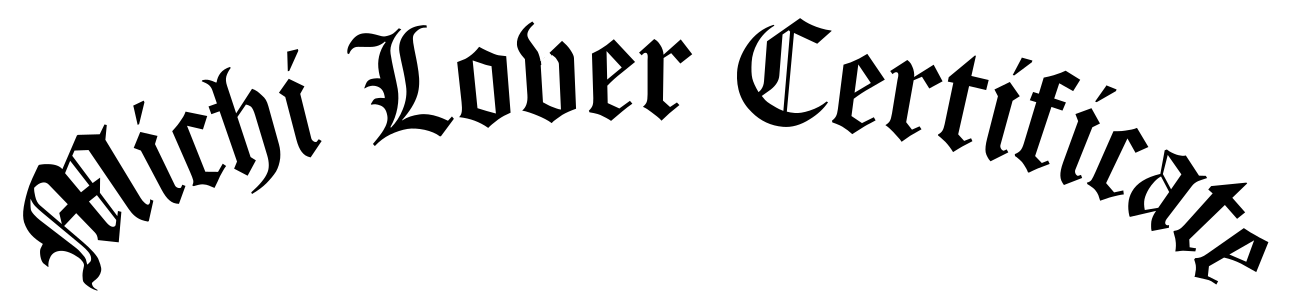
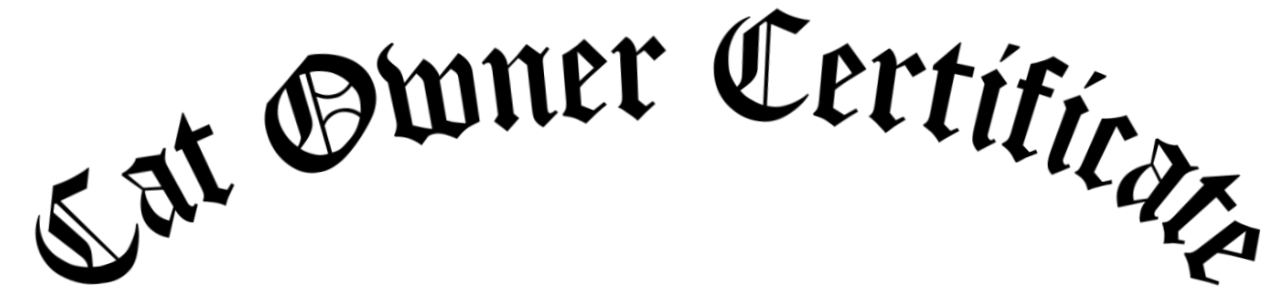
too many changes to list XD

Changed region(s): [[0.0, 0.0297, 0.9946, 0.9505]]

diff --git a/index.html b/index.html
@@ -11,16 +11,16 @@
 </head>
 
 <body class="anima">
-    <h1 id="title">MICHI LOVER<h1>
+    <h1 id="title">CAT OWNER<h1>
             <h1>CERTIFICATE<h1>
                     <p id="description">official michi fanclub</p>
                     <form method="get">
                         <fieldset>
-                            <legend>Give us your information muahaha !</legend>
+                            <legend>Personal Information</legend>
                             <label class="block" id="name-label">What's your name ? <input class="block, sel" required
                                     id="name" type="text" placeholder="Karen"></label>
-                            <label id="email-label">Give us your email ! <input class="block, sel" required id="email"
-                                    type="email" placeholder="michi@atun.com"></label>
+                            <label id="email-label">e-mail address <input class="block, sel" id="email"
+                                    type="email" placeholder="michi@atun.com" disabled></label>
                         </fieldset>
                         <fieldset>
                             <legend>Quantity and Origin</legend>
@@ -29,19 +29,19 @@
                             <label>Where do they come from ?
                                 <select class="block, sel" id="dropdown">
                                     <option value="">Pick one!</option>
-                                    <option value="Compraditos">Compraditos</option>
-                                    <option value="Adptaditos">Adoptaditos</option>
-                                    <option value="Rescataditos">Rescataditos</option>
-                                    <option value="Heredaditos">Heredaditos</option>
-                                    <option value="all of the above">all of the above</option>
+                                    <option value="Purchased">Purchased</option>
+                                    <option value="Adopted">Adopted</option>
+                                    <option value="Rescued">Rescued</option>
+                                    <option value="Inherited">Inherited</option>
+                                    <option value="All of the above">All of the above</option>
                                 </select>
                             </label>
                         </fieldset>
                         <fieldset>
                             <legend>Can they go outside ?</legend>
-                            <label id="radio1"><input type="radio" name="space" value="Yes">Yes</label>
-                            <label id="radio2"><input type="radio" name="space" value="Sometimes">Sometimes</label>
-                            <label id="radio3"><input type="radio" name="space" value="No">No</label>
+                            <label id="radio1"><input type="radio" name="space" value="allowed">Yes</label>
+                            <label id="radio2"><input type="radio" name="space" value="sometimes allowed">Sometimes</label>
+                            <label id="radio3"><input type="radio" name="space" value="not allowed">No</label>
                         </fieldset>
                         <fieldset>
                             <legend>What kind of colour ?</legend>

diff --git a/styles2.css b/styles2.css
@@ -18,8 +18,9 @@ body {
     height: 200mm;
     width: 267mm;
     border: 1mm solid #eb09a0;
-    background: radial-gradient(50% 123.47% at 50% 50%, #00FF94 0%, #720059 100%), linear-gradient(121.28deg, #669600 0%, #FF0000 100%), linear-gradient(360deg, #0029FF 0%, #8FFF00 100%), radial-gradient(100% 164.72% at 100% 100%, #6100FF 0%, #00FF57 100%), radial-gradient(100% 148.07% at 0% 0%, #FFF500 0%, #51D500 100%);
-    background-blend-mode: screen, color-dodge, overlay, difference, normal;
+    background: rgb(238,174,202);
+    /*background: radial-gradient(circle, rgba(238,174,202,1) 0%, rgba(148,187,233,1) 100%);*/
+    /*background-blend-mode: screen, color-dodge, overlay, difference, normal;*/
 }
 
 
@@ -29,15 +30,14 @@ body {
     top: 10mm;
     height: 178mm;
     width: 245mm;
-    border: 0.5mm solid #991b8a;
+    border: 0.5mm solid #eb09a0;
     background: white;
 }
 
 .inner-content {
-    border-bottom: 0.5mm solid #dd00ff;
+    border-bottom: 0.5mm solid #eb09a0;
     margin: 4mm;
     padding: 10mm;
-    padding-left: 0px;
     height: 148mm;
     text-align: center;
     background-image: url("title.png");
@@ -53,7 +53,7 @@ h1 {
     text-transform: uppercase;
     font-size: 48pt;
     margin-bottom: 0;
-    margin-top: 45px;
+    margin-top: 85px;
     color: white;
     opacity: 0%;
 }
@@ -62,9 +62,8 @@ h2 {
     font-size: 24pt;
     margin-top: 0;
     padding-bottom: 1mm;
-    margin-left: 80px;
     display: inline-block;
-    border-bottom: 0.5mm solid #dd00ff;
+    border-bottom: 0.5mm solid #eb09a0;
     text-shadow: 0.5px 2.5px 10px rgba(207, 207, 207, 0.5);
 }
 
@@ -72,7 +71,7 @@ h2::after {
     content: "";
     display: block;
     padding-bottom: 4mm;
-    border-bottom: 0.5mm solid #dd00ff;
+    border-bottom: 0.5mm solid #eb09a0;
 }
 
 h3 {
@@ -92,26 +91,34 @@ p {
     width: 40mm;
     height: 40mm;
     position: absolute;
-    right: 10mm;
-    bottom: 10mm;
+    right:  2mm;
+    bottom: 2mm;
     background-image: url("paw.svg");
     background-repeat: no-repeat;
+    background-size: 75%;
     opacity: 25%;
     
 }
+
+.data {
+
+        font-family: 'Times New Roman', Times, serif;
+        font-size: 25px;
+        }
 
 
 
 .grid-container {
     display: grid;
     column-gap: 10px;
+    row-gap: 20px;
     grid-template-columns: auto auto;
     padding: 10px;
 }
 
 .grid-item-a {
 
-    padding: 20px;
+    padding: 0px;
     font-size: 30px;
     text-align: center;
 }

diff --git a/form-data.html b/form-data.html
@@ -14,22 +14,17 @@
     <div class="content">
         <div class="inner-content">
             <h1> *</h1>
-            <h2>Proudly Presented To: ${name}</h2>
+            <h2>Celebrating the Joy of Feline Companionship</h2>
             <div class="grid-container">
 
                 <div class="grid-item-a">
 
-                    <h3>For a Total of :</h3>
-                    <p>${number} dangerous criminals</p>
-                    <h3>Form of Acquisition:</h3>
-                    <p>Adoptaditos</p>
-                </div>
-                <div class="grid-item-b">
-
-                    <h3>Can they go outside?</h3>
-                    <p>${space}</p>
-                    <h3>Colors:</h3>
-                    <p>Solid Bicolor</p>
+                    <h3></h3>
+                    
+            <p class="data">This is to certify that ${name} is the proud owner of ${number} cats. The cats were 
+              ${dropdown} and their colors are ${opt.join(', ')}. It is noted that these cats are ${space} to go 
+              outside as desired.</p>
+                    
                 </div>
                 <div class="grid-item-c">
                     <h3>Dedicated to:</h3>
@@ -42,7 +37,6 @@
         </div>
     </div>
 </div>
-
   <!--
     <div class="border-pattern">
     <div class="content">
